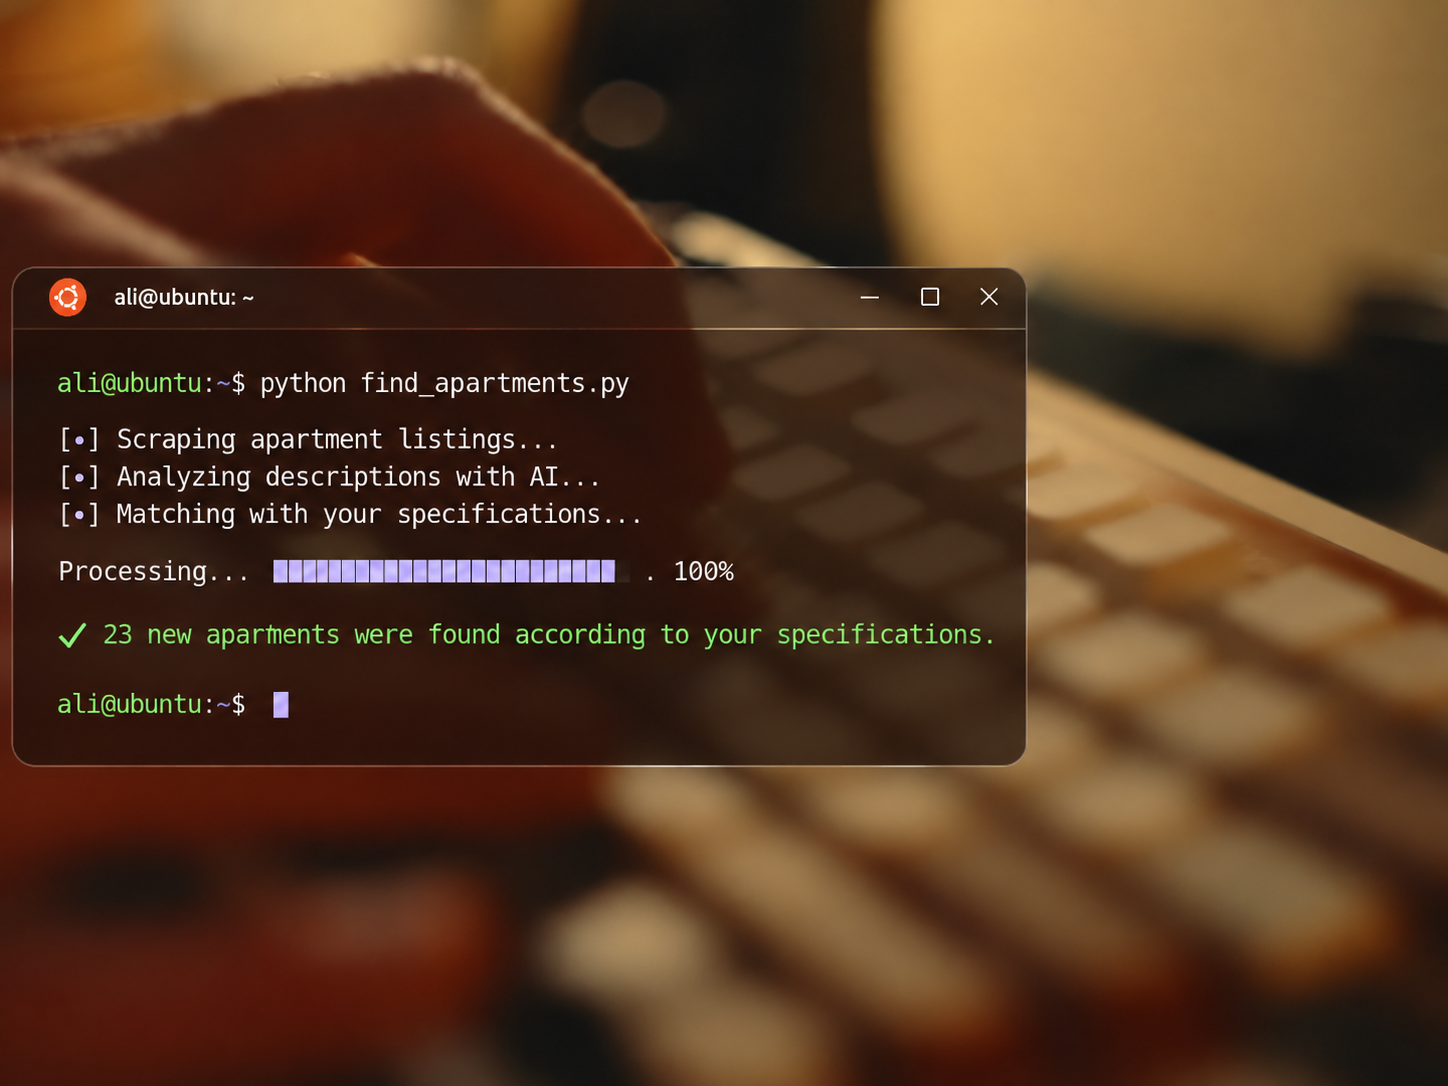
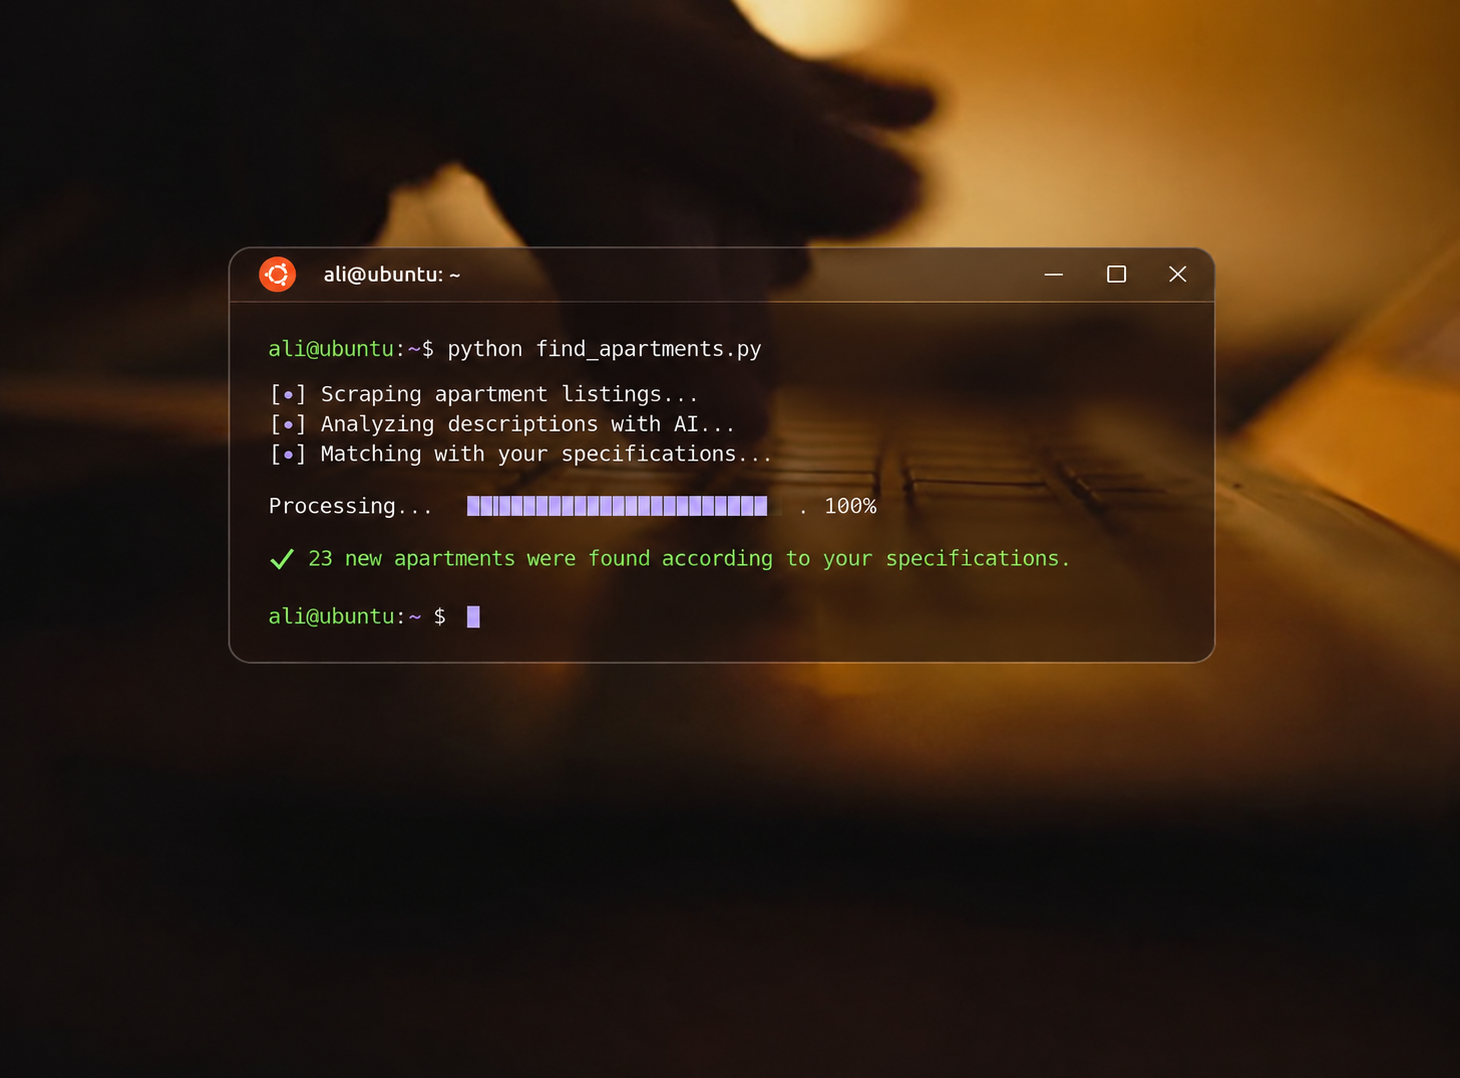
gallery work

diff --git a/client/src/Gallery.css b/client/src/Gallery.css
@@ -10,13 +10,42 @@ html:has(.gallery-exhibition)::-webkit-scrollbar { display: none; }
 .gallery-scene .detail-blur { background: #edededca; backdrop-filter: grayscale(1) blur(18px); -webkit-backdrop-filter: grayscale(1) blur(18px); }
 .gallery-scene .detail-blur-top { background: linear-gradient(to bottom, #ededed, #edededca); }
 .gallery-scene .detail-blur-bottom { background: linear-gradient(to bottom, #edededca, #ededed); }
-.gallery-scene .detail-blur::after { mix-blend-mode: multiply; opacity: .2; }
+.gallery-scene .detail-blur::after { mix-blend-mode: multiply; }
 .gallery-exhibition .gallery-scene .work-detail-backdrop .detail-artwork,
-.gallery-exhibition .gallery-scene .gallery-preview-placeholder,
-.gallery-exhibition .gallery-scene .detail-art-peek { filter: none; }
-.gallery-scene .work-detail-backdrop .gallery-preview-placeholder { object-fit: cover; }
+.gallery-exhibition .gallery-scene .detail-art-peek,
+.gallery-exhibition .gallery-scene .detail-apartment-peek > img { filter: none; }
+.gallery-preview-loading { position: absolute; inset: 0; background: #e4e4e4; }
+.gallery-preview-loading > span { position: absolute; top: var(--focus-top); left: var(--focus-left); width: var(--focus-width); height: var(--focus-height); display: grid; place-items: center; color: #777; font: 400 11px/1.4 var(--sans); }
 .gallery-scene .gallery-live-frame { opacity: 0; }
 .gallery-scene .gallery-live-frame.is-ready { opacity: 1; }
+
+/* Frame the live sites independently of the fixed focus window. */
+.gallery-scene .work-detail-backdrop iframe {
+  position: absolute;
+  left: var(--gallery-preview-x, 0px);
+  top: var(--gallery-preview-y, 0px);
+  width: calc(100% / var(--gallery-preview-viewport, .65));
+  height: calc(100% / var(--gallery-preview-viewport, .65));
+  transform: scale(var(--gallery-preview-scale, .65));
+}
+.gallery-scene.work-detail-connect-ops { --gallery-preview-x: calc(min(36vw, 52svh) - 47vw); }
+.gallery-scene.work-detail-t-a-s-c-website-development { --gallery-preview-scale: .5; --gallery-preview-x: 7vw; --gallery-preview-y: 13svh; }
+.gallery-scene.work-detail-robotic-arm-control-system-with-web-ui { --gallery-preview-scale: .82; --gallery-preview-viewport: .82; --gallery-preview-x: 1vw; --gallery-preview-y: 14svh; }
+.gallery-scene.work-detail-little-genius-island-website-booking-system { --gallery-preview-scale: .52; --gallery-preview-x: 1vw; --gallery-preview-y: 8svh; }
+.gallery-scene.work-detail-interior-studio-website { --gallery-preview-scale: .52; --gallery-preview-x: -3vw; --gallery-preview-y: 8svh; }
+.gallery-scene.work-detail-course-availability-notifier { --gallery-image-x: -3vw; }
+.gallery-scene.work-detail-under-the-tree-charity { --gallery-image-x: -1vw; }
+.gallery-scene.work-detail-under-the-tree-charity .detail-artwork,
+.gallery-scene.work-detail-course-availability-notifier .detail-artwork { left: var(--gallery-image-x); }
+.gallery-scene.work-detail-course-availability-notifier .detail-art-peek { left: calc(22% + var(--gallery-image-x)); }
+
+/* Fit the portrait to its window at every aspect ratio, with no letterbox edges. */
+.gallery-scene.work-detail-tutoring .detail-artwork-fill { display: block; }
+.gallery-scene.work-detail-tutoring .work-detail-backdrop .detail-artwork {
+  left: var(--focus-left); top: var(--focus-top);
+  width: var(--focus-width); height: var(--focus-height);
+  object-fit: cover; object-position: 40% 50%;
+}
 .gallery-scene .work-detail-backdrop { content-visibility: auto; contain-intrinsic-size: auto 100svh; }
 .gallery-scene .gallery-copy { color: #171717; }
 .gallery-copy h2 { margin: 0; color: inherit; font: inherit; letter-spacing: inherit; overflow-wrap: anywhere; }
@@ -69,6 +98,11 @@ html:has(.gallery-exhibition)::-webkit-scrollbar { display: none; }
 .gallery-exhibition .detail-focus:focus-visible { outline-color: #fff; }
 
 @media (max-width: 760px) {
+  .gallery-scene.work-detail-connect-ops { --gallery-preview-x: -6vw; }
+  .gallery-scene.work-detail-t-a-s-c-website-development { --gallery-preview-scale: .46; --gallery-preview-x: 4vw; --gallery-preview-y: 14svh; }
+  .gallery-scene.work-detail-robotic-arm-control-system-with-web-ui { --gallery-preview-scale: .54; --gallery-preview-viewport: .58; --gallery-preview-x: -3vw; --gallery-preview-y: 14svh; }
+  .gallery-scene.work-detail-little-genius-island-website-booking-system,
+  .gallery-scene.work-detail-interior-studio-website { --gallery-preview-scale: .48; --gallery-preview-x: 3vw; --gallery-preview-y: 13svh; }
   .gallery-intro-links { top: 22px; left: 20px; width: calc(100% - 88px); height: auto; display: grid; grid-template-columns: 1fr 1fr; gap: 13px 10px; font-size: 12px; }
   .gallery-intro-links > a { position: static; gap: 7px; }
   .gallery-intro-links > a > span { min-width: 18px; font-size: 10px; }

diff --git a/client/src/App.tsx b/client/src/App.tsx
@@ -2,7 +2,7 @@ import { useEffect, useState, type FormEvent, type ReactNode } from 'react'
 import './App.css'
 import WorkShowcase from './WorkShowcase'
 import './Browsing.css'
-import WorkSceneMedia from './WorkSceneMedia'
+import WorkSceneMedia, { WorkArtPeek } from './WorkSceneMedia'
 
 type Page = 'home' | 'index' | 'experience' | 'projects' | 'freelance' | 'extracurricular' | 'note' | 'work'
 type WorkItem = {
@@ -484,8 +484,8 @@ const freelanceEntries = [
     summary: 'Created a paid Selenium and OpenAI tool that classifies apartment descriptions, filters for genuine two-bedroom listings, and saves results between runs.',
     tags: ['Python', 'AI', 'Automation'],
     imageLabel: 'Apartment filter image',
-    image: '/item-images/04_terminal_expanded.png',
-    hoverImage: '/item-images/apartment-hover.png',
+    image: '/item-images/apartment-base.png',
+    hoverImage: '/item-images/apartment-terminal.png',
     links: [{ label: 'View project', href: 'https://github.com/alitcs/Apartment-Filter' }],
   },
   {
@@ -501,13 +501,14 @@ const freelanceEntries = [
     links: [{ label: 'View project', href: 'https://github.com/alitcs/Course-Availability-Notifier' }],
   },
   {
-    title: 'Interior Studio Website',
+    title: 'Interior Designr',
+    slug: 'interior-studio-website',
     impact: 'Helps clients explore design work and enquire in English or Persian.',
     technical: 'Responsive web UI, bilingual content, interactive galleries',
     type: 'Business website',
     summary: 'Designed and built an interior design website with interactive before-and-after project galleries, English and Persian language options, and a project inquiry form.',
     tags: ['Web design', 'Responsive UI', 'Multilingual'],
-    imageLabel: 'Interior Studio website image',
+    imageLabel: 'Interior Designr website image',
     image: '/item-images/interiordesignr.png',
     hoverImage: '/item-images/interiordesignr-hover.png',
     previewUrl: 'https://interiordesignr.netlify.app/',
@@ -642,7 +643,7 @@ const workItems: WorkItem[] = [
     highlights: entry.highlights,
   })),
   ...freelanceEntries.map((entry) => ({
-    slug: slugify(entry.title),
+    slug: 'slug' in entry ? entry.slug : slugify(entry.title),
     title: entry.title,
     category: 'Freelance',
     summary: entry.summary,
@@ -770,7 +771,7 @@ function FreelancePage() {
       <section className="projects-page-content section-wrap">
         <div className="project-grid">
           {freelanceEntries.map((project, index) => {
-            const cardHref = `/work/${slugify(project.title)}`
+            const cardHref = `/work/${'slug' in project ? project.slug : slugify(project.title)}`
 
             return (
             <article className="project-card linked-card" key={project.title}>
@@ -883,9 +884,7 @@ function WorkDetailPage({ item }: { item?: WorkItem }) {
       ) : (
         <div className="detail-focus detail-focus-empty" aria-hidden="true" />
       )}
-      {(item.slug === 'course-availability-notifier' || item.slug === 'artificial-intelligence-real-estate-scraper-filter') && (
-        <img className="detail-art-peek" src={item.image} alt="" aria-hidden="true" />
-      )}
+      <WorkArtPeek item={item} />
       <div className="detail-copy">
         <div className="detail-copy-row">
           <span aria-hidden="true">01</span>

diff --git a/client/src/WorkShowcase.tsx b/client/src/WorkShowcase.tsx
@@ -1,5 +1,5 @@
 import { useEffect, useRef, useState } from 'react'
-import WorkSceneMedia, { type SceneItem } from './WorkSceneMedia'
+import WorkSceneMedia, { WorkArtPeek, type SceneItem } from './WorkSceneMedia'
 import './Gallery.css'
 
 type ShowcaseItem = SceneItem & {
@@ -61,6 +61,8 @@ export default function WorkShowcase({ items }: { items: readonly ShowcaseItem[]
   const ordered = [...items].sort((a, b) => order.indexOf(a.category) - order.indexOf(b.category))
   const visible = ordered.filter((item) => filter === 'all' || categoryFilter(item) === filter)
   const activeIndex = Math.max(0, visible.findIndex((item) => item.slug === activeSlug))
+  // Warm the next actual websites, even when static-image projects sit between them.
+  const preloadSlugs = new Set(visible.slice(activeIndex).filter((item) => item.previewUrl).slice(0, 3).map((item) => item.slug))
   const firstId = visible[0] ? `item-${visible[0].slug}` : 'overview'
 
   useEffect(() => {
@@ -180,10 +182,10 @@ export default function WorkShowcase({ items }: { items: readonly ShowcaseItem[]
 
       <div className="gallery-reel" id="work-gallery" aria-label="Selected work">
         {visible.map((item, index) => <article key={item.slug} className={`work-detail work-detail-${item.slug} gallery-scene gallery-screen`} id={`item-${item.slug}`} data-slug={item.slug} aria-labelledby={`title-${item.slug}`}>
-          <WorkSceneMedia item={item} gallery active={index === activeIndex || Boolean(activeSlug) && index === activeIndex + 1} />
+          <WorkSceneMedia item={item} gallery active={preloadSlugs.has(item.slug)} />
           <header className="work-detail-header gallery-scene-header"><span>{pad(index + 1)} / {pad(visible.length)} <span aria-hidden="true">—</span> {item.category}</span></header>
           <a className="detail-focus gallery-focus-link" href={`/work/${item.slug}`} aria-label={`Explore ${title(item)}`} onClick={() => remember(item.slug)}><span className="gallery-focus-cross" aria-hidden="true">+</span><span className="detail-focus-action">Explore <span aria-hidden="true">↗</span></span></a>
-          {(item.slug === 'course-availability-notifier' || item.slug === 'artificial-intelligence-real-estate-scraper-filter') && <div className="gallery-peek-clip" aria-hidden="true"><img className="detail-art-peek" src={item.image} alt="" /></div>}
+          {(item.slug === 'course-availability-notifier' || item.slug === 'artificial-intelligence-real-estate-scraper-filter') && <div className="gallery-peek-clip" aria-hidden="true"><WorkArtPeek item={item} /></div>}
           <div className="detail-copy gallery-copy">
             <div className="detail-copy-row"><span aria-hidden="true">01</span><h2 id={`title-${item.slug}`}>{title(item)}</h2></div>
             <div className="detail-copy-row"><span aria-hidden="true">02</span><p>{blurbs[item.slug] || item.impact}</p></div>

diff --git a/client/src/WorkSceneMedia.tsx b/client/src/WorkSceneMedia.tsx
@@ -1,4 +1,4 @@
-import { useState } from 'react'
+import { useEffect, useState } from 'react'
 
 export type SceneItem = {
   slug: string
@@ -19,7 +19,31 @@ function GalleryLiveFrame({ item }: { item: SceneItem }) {
   />
 }
 
-// Both routes use the same source, scaling, image placement, and four blur panels.
+function GalleryPreview({ item, active }: { item: SceneItem; active: boolean }) {
+  const [started, setStarted] = useState(active)
+  useEffect(() => {
+    if (active) setStarted(true)
+  }, [active])
+
+  return <>
+    <div className="gallery-preview-loading"><span>Loading live preview…</span></div>
+    {(active || started) && <GalleryLiveFrame item={item} />}
+  </>
+}
+
+export function WorkArtPeek({ item }: { item: SceneItem }) {
+  if (item.slug === 'course-availability-notifier') {
+    return <img className="detail-art-peek" src={item.image} alt="" aria-hidden="true" />
+  }
+  if (item.slug === 'artificial-intelligence-real-estate-scraper-filter') {
+    return <div className="detail-apartment-peek" aria-hidden="true">
+      <img src="/item-images/apartment-terminal.png" alt="" />
+    </div>
+  }
+  return null
+}
+
+// The gallery can adjust each crop without changing its individual work page.
 export default function WorkSceneMedia({ item, gallery = false, active = true }: {
   item: SceneItem
   gallery?: boolean
@@ -28,10 +52,7 @@ export default function WorkSceneMedia({ item, gallery = false, active = true }:
   return (
     <div className="work-detail-backdrop" aria-hidden="true">
       {item.previewUrl ? gallery ? (
-        <>
-          <img className="gallery-preview-placeholder" src={item.image} alt="" loading="lazy" />
-          {active && <GalleryLiveFrame item={item} />}
-        </>
+        <GalleryPreview item={item} active={active} />
       ) : (
         <iframe src={item.previewUrl} title={`${item.title} preview`} tabIndex={-1} loading="eager" />
       ) : (

diff --git a/client/src/data/work.ts b/client/src/data/work.ts
@@ -113,8 +113,8 @@ const freelanceEntries = [
     summary: 'Created a paid Selenium and OpenAI tool that classifies apartment descriptions, filters for genuine two-bedroom listings, and saves results between runs.',
     tags: ['Python', 'AI', 'Automation'],
     imageLabel: 'Apartment filter image',
-    image: '/item-images/04_terminal_expanded.png',
-    hoverImage: '/item-images/apartment-hover.png',
+    image: '/item-images/apartment-base.png',
+    hoverImage: '/item-images/apartment-terminal.png',
     links: [{ label: 'View project', href: 'https://github.com/alitcs/Apartment-Filter' }],
   },
   {
@@ -130,13 +130,14 @@ const freelanceEntries = [
     links: [{ label: 'View project', href: 'https://github.com/alitcs/Course-Availability-Notifier' }],
   },
   {
-    title: 'Interior Studio Website',
+    title: 'Interior Designr',
+    slug: 'interior-studio-website',
     impact: 'Helps clients explore design work and enquire in English or Persian.',
     technical: 'Responsive web UI, bilingual content, interactive galleries',
     type: 'Business website',
     summary: 'Designed and built an interior design website with interactive before-and-after project galleries, English and Persian language options, and a project inquiry form.',
     tags: ['Web design', 'Responsive UI', 'Multilingual'],
-    imageLabel: 'Interior Studio website image',
+    imageLabel: 'Interior Designr website image',
     image: '/item-images/interiordesignr.png',
     hoverImage: '/item-images/interiordesignr-hover.png',
     previewUrl: 'https://interiordesignr.netlify.app/',
@@ -269,7 +270,7 @@ export const workItems: WorkItem[] = [
     highlights: entry.highlights,
   })),
   ...freelanceEntries.map((entry) => ({
-    slug: slugify(entry.title),
+    slug: 'slug' in entry ? entry.slug : slugify(entry.title),
     title: entry.title,
     category: 'Freelance',
     summary: entry.summary,

diff --git a/client/src/App.css b/client/src/App.css
@@ -593,7 +593,8 @@ h1, h2, h3, p { margin-top: 0; }
 .detail-blur-right { top: var(--focus-top); right: 0; left: calc(var(--focus-left) + var(--focus-width)); height: var(--focus-height); }
 .detail-art-peek { position: absolute; z-index: 39; top: 50%; left: 22%; height: auto; transform: translate(-22%, -50%); pointer-events: none; }
 .work-detail-course-availability-notifier .detail-art-peek { width: min(100%, calc(100svh * 1683 / 2103)); clip-path: inset(39.3% 31.7% 53.9% 26.3% round 2%); }
-.work-detail-artificial-intelligence-real-estate-scraper-filter .detail-art-peek { width: min(100%, calc(100svh * 2172 / 1629)); clip-path: inset(33.2% 39.5% 36.3% 14% round 1.1%); }
+.detail-apartment-peek { position: absolute; z-index: 39; top: 50%; left: 22%; width: min(100%, calc(100svh * 1460 / 1078)); aspect-ratio: 1460 / 1078; transform: translate(-22%, -50%); pointer-events: none; }
+.detail-apartment-peek > img { position: absolute; top: 19%; left: 13.3%; width: 72.25%; height: 48.05%; object-fit: fill; }
 .detail-focus { position: absolute; z-index: 38; top: var(--focus-top); left: var(--focus-left); width: var(--focus-width); height: var(--focus-height); display: grid; place-items: center; border: 1px solid #ffffffdd; color: #fff; text-decoration: none; }
 .detail-focus:focus-visible { outline: 3px solid white; outline-offset: 4px; }
 .detail-focus-action { position: absolute; bottom: 16px; left: 50%; display: flex; align-items: center; justify-content: center; gap: 8px; padding: 9px 13px; border: 1px solid #ffffffb3; border-radius: 999px; background: #fffef2e8; color: #171b19; font: 500 10px/1 var(--mono); letter-spacing: .06em; text-transform: uppercase; opacity: 0; transform: translateX(-50%); transition: opacity .2s ease; }

diff --git a/client/src/data/workPresentation.ts b/client/src/data/workPresentation.ts
@@ -20,7 +20,7 @@ const workPresentation: Record<string, { title?: string; previewImage?: string; 
   },
   'interior-studio-website': {
     previewImage: '/gallery-previews/interior-studio-website.png',
-    title: 'Interior Studio',
+    title: 'Interior Designr',
     blurb: 'A bilingual home for an interior design studio.',
     detail: 'Designed and built a responsive studio website with English and Persian content. Interactive before-and-after galleries help visitors explore transformations, while a project inquiry form gives prospective clients a direct way to connect.',
   },

diff --git a/client/README.md b/client/README.md
@@ -25,4 +25,6 @@ npm run lint
 - Each work page pairs the item title with concise real-world impact and technical details sourced from the experience files.
 - The typography uses a regular-weight, tightly spaced sans-serif editorial style; work-page text retains each item's accent color.
 - Gallery artwork from the root `item-images/` directory is published from `public/item-images/`.
-- The animated tracking overlay runs on the landing page, gallery, and individual work pages. It is the dependency-free script in `public/blob-overlay.js`, sourced from `blob-tracking/blob-overlay.js`; its lifecycle, density, motion preferences, and soft masks are managed by `src/App.tsx`. The gallery mounts live embeds only for the current scene and its immediate successor, using the supplied artwork while previews load.
+- The animated tracking overlay runs on the landing page, gallery, and individual work pages. It is the dependency-free script in `public/blob-overlay.js`, sourced from `blob-tracking/blob-overlay.js`; its lifecycle, density, motion preferences, and soft masks are managed by `src/App.tsx`.
+- The gallery preloads the next three website previews, starting on the introduction, and retains started frames while browsing so returning to a project does not reload it. Third-party sites still control their own startup time. While a preview loads, its window shows a neutral loading surface rather than a project thumbnail. Static-image projects keep their artwork.
+- Gallery grain inherits the item pages’ texture, scale, and opacity; multiply blending keeps it visible on the gallery’s lighter grayscale backdrop.
